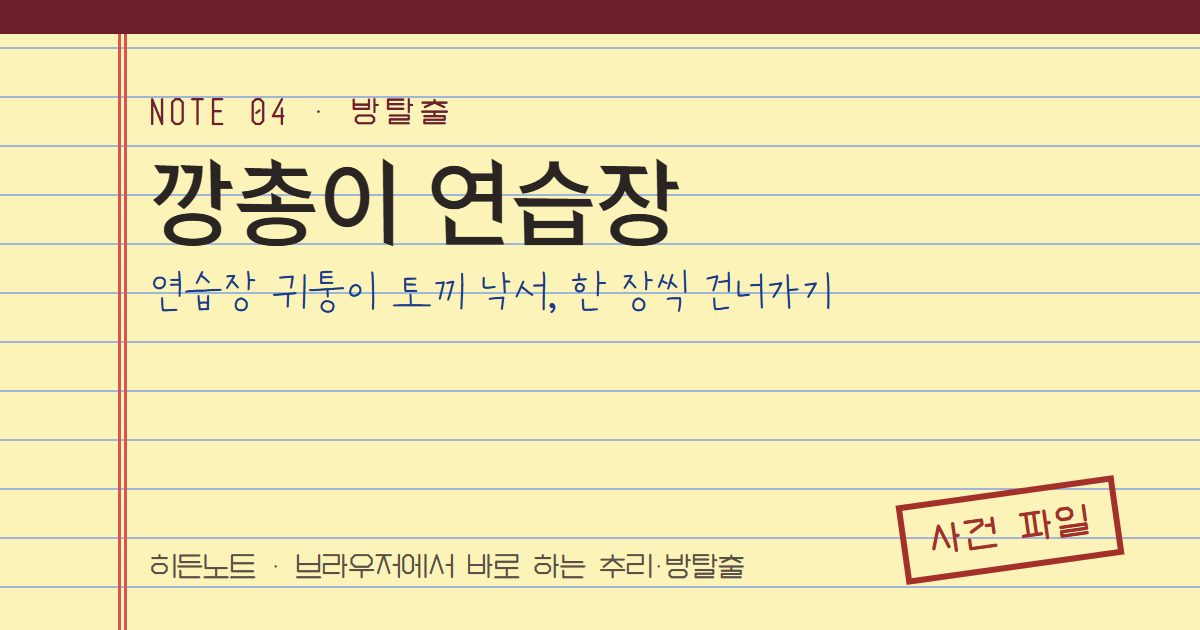
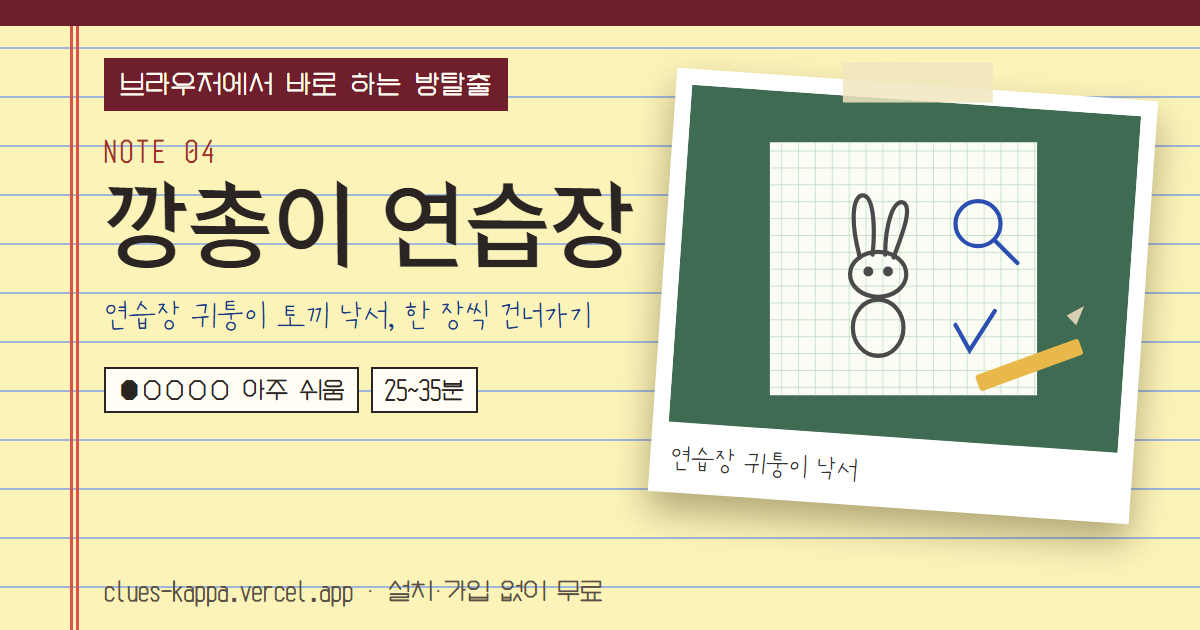
Use the main card polaroids in note link previews; count real clears
- og/note.html renders each note card's polaroid into og/noteNN.png
- og:description says it is a free browser escape game
- feedback.js counts a clear once per device (needs a Firestore rule)
- ledger: higher recommend seeds, live clear counts, drop (est.)

Claude-Session: https://claude.ai/code/session_014xZr56KSBxKkeAwG41ZnWC

diff --git a/index.html b/index.html
@@ -306,7 +306,7 @@ footer{padding-top:var(--lh);padding-bottom:var(--lh);font-family:var(--hand);fo
           <div><dt data-en="Genre">장르</dt><dd data-en="Escape room">방탈출</dd></div>
           <div><dt data-en="Difficulty">난이도</dt><dd data-en="●●●○○ Medium">●●●○○ 보통</dd></div>
           <div><dt data-en="Players">인원</dt><dd data-en="1+">1인 이상</dd></div>
-          <div><dt data-en="Play time">소요 시간</dt><dd data-en="35–45 min (est.) · Korean only">35~45분 (예상)</dd></div>
+          <div><dt data-en="Play time">소요 시간</dt><dd data-en="35–45 min · Korean only">35~45분</dd></div>
         </dl>
         <span class="open" data-en="Open the log →">일지 펼치기 →</span>
         <div class="stamp" data-stamp="note05" data-default="unsolved" data-en="UNSOLVED">미해결</div>
@@ -337,7 +337,7 @@ footer{padding-top:var(--lh);padding-bottom:var(--lh);font-family:var(--hand);fo
           <div><dt data-en="Genre">장르</dt><dd data-en="Escape room">방탈출</dd></div>
           <div><dt data-en="Difficulty">난이도</dt><dd data-en="●●●○○ Medium">●●●○○ 보통</dd></div>
           <div><dt data-en="Players">인원</dt><dd data-en="1+">1인 이상</dd></div>
-          <div><dt data-en="Play time">소요 시간</dt><dd data-en="40–50 min (est.) · Korean only">40~50분 (예상)</dd></div>
+          <div><dt data-en="Play time">소요 시간</dt><dd data-en="40–50 min · Korean only">40~50분</dd></div>
         </dl>
         <span class="open" data-en="Start the shift →">근무 시작 →</span>
         <div class="stamp newcase" data-stamp="note06" data-default="new" data-en="NEW CASE">새 사건</div>
@@ -358,9 +358,9 @@ footer{padding-top:var(--lh);padding-bottom:var(--lh);font-family:var(--hand);fo
             <td class="cl" data-cl="note03">—</td><td class="me" data-rec="note03">—</td><td class="rc"><button class="rec" data-note="note03" aria-pressed="false"><span class="ico">★</span><span class="lbl">추천</span><b>·</b></button></td></tr>
           <tr><td class="n">NOTE 04</td><td><a href="notes/04/" data-en="The Doodle Notebook">깡총이 연습장</a></td><td class="g" data-en="Escape room">방탈출</td><td class="lv" title="1/5"><span class="dots">●○○○○</span> <span data-en="Very easy">아주 쉬움</span></td><td data-en="1+">1인~</td><td data-en="25–35 min">25~35분</td>
             <td class="cl" data-cl="note04">—</td><td class="me" data-rec="note04">—</td><td class="rc"><button class="rec" data-note="note04" aria-pressed="false"><span class="ico">★</span><span class="lbl">추천</span><b>·</b></button></td></tr>
-          <tr><td class="n">NOTE 05</td><td><a href="notes/05/" data-en="Exit 2 of the Closed Cinema">폐극장 2번 출구</a></td><td class="g" data-en="Escape room">방탈출</td><td class="lv" title="3/5"><span class="dots">●●●○○</span> <span data-en="Medium">보통</span></td><td data-en="1+">1인~</td><td data-en="35–45 min (est.)">35~45분 (예상)</td>
+          <tr><td class="n">NOTE 05</td><td><a href="notes/05/" data-en="Exit 2 of the Closed Cinema">폐극장 2번 출구</a></td><td class="g" data-en="Escape room">방탈출</td><td class="lv" title="3/5"><span class="dots">●●●○○</span> <span data-en="Medium">보통</span></td><td data-en="1+">1인~</td><td data-en="35–45 min">35~45분</td>
             <td class="cl" data-cl="note05">—</td><td class="me" data-rec="note05">—</td><td class="rc"><button class="rec" data-note="note05" aria-pressed="false"><span class="ico">★</span><span class="lbl">추천</span><b>·</b></button></td></tr>
-          <tr><td class="n">NOTE 06</td><td><a href="notes/06/" data-en="Gureumjae">구름재</a></td><td class="g" data-en="Escape room">방탈출</td><td class="lv" title="3/5"><span class="dots">●●●○○</span> <span data-en="Medium">보통</span></td><td data-en="1+">1인~</td><td data-en="40–50 min (est.)">40~50분 (예상)</td>
+          <tr><td class="n">NOTE 06</td><td><a href="notes/06/" data-en="Gureumjae">구름재</a></td><td class="g" data-en="Escape room">방탈출</td><td class="lv" title="3/5"><span class="dots">●●●○○</span> <span data-en="Medium">보통</span></td><td data-en="1+">1인~</td><td data-en="40–50 min">40~50분</td>
             <td class="cl" data-cl="note06">—</td><td class="me" data-rec="note06">—</td><td class="rc"><button class="rec" data-note="note06" aria-pressed="false"><span class="ico">★</span><span class="lbl">추천</span><b>·</b></button></td></tr>
           <tr class="off"><td class="n">NOTE 07</td><td class="t" data-en="The Night Before the Exam">수능 전날 밤 독서실</td><td class="g" data-en="In planning">기획 중</td><td class="lv">—</td><td>—</td><td>—</td><td>—</td><td class="release" colspan="2" data-en="Coming soon">출시 예정</td></tr>
           <tr class="off"><td class="n">NOTE 08</td><td class="t" data-en="The Lost-and-Found Bag">분실물 센터 가방</td><td class="g" data-en="In planning">기획 중</td><td class="lv">—</td><td>—</td><td>—</td><td>—</td><td class="release" colspan="2" data-en="Coming soon">출시 예정</td></tr>
@@ -449,12 +449,13 @@ async function connect(){
   })().catch(e=>{fb=null;throw e});
   return fb;
 }
-// 화면에 보이는 추천 수의 기본값. 실제 누른 수(Firestore count)에 더해서 보여 준다. DB에는 안 쓴다.
-// 사건 대장 클리어 수 (화면 표시용 기본값. 실제 집계는 아직 안 붙임)
+// 사건 대장 클리어 수 = 기본값 + 실제 클리어(feedback.js가 결말에서 clueLikes/clear_noteNN에 +1, 기기당 한 번)
 const STATS = {note01:{n:214}, note02:{n:187}, note03:{n:263}, note04:{n:201}, note05:{n:58}, note06:{n:12}};
-document.querySelectorAll('td[data-cl]').forEach(td=>{const s=STATS[td.dataset.cl];if(!s)return;
-  td.innerHTML=(EN?s.n+'':s.n+'명');});
-const SEED = {note03: 104, note01: 78, note04: 69, note02: 71, note05: 24, note06: 7};
+document.querySelectorAll('td[data-cl]').forEach(async td=>{const note=td.dataset.cl,s=STATS[note];if(!s)return;
+  const show=n=>{td.innerHTML=EN?n+'':n+'명'};show(s.n);
+  try{const c=await connect(),snap=await c.store.getDoc(c.store.doc(c.db,'clueLikes','clear_'+note));show(s.n+(snap.exists()?Math.max(0,snap.data().count|0):0))}catch{}});
+// 화면에 보이는 추천 수의 기본값. 실제 누른 수(Firestore count)에 더해서 보여 준다. DB에는 안 쓴다.
+const SEED = {note03: 158, note01: 124, note04: 113, note02: 112, note05: 36, note06: 8};
 const mine = note => { try { return localStorage.getItem('hn.rec.'+note) === '1'; } catch { return false; } };
 const setMine = (note, on) => { try { on ? localStorage.setItem('hn.rec.'+note, '1') : localStorage.removeItem('hn.rec.'+note); } catch {} };
 function paint(btn, count){

diff --git a/og/note.html b/og/note.html
@@ -1,0 +1,38 @@
+<!DOCTYPE html><html><head><meta charset="utf-8"><link rel="stylesheet" href="../fonts/fonts.css">
+<link rel="stylesheet" href="https://cdn.jsdelivr.net/gh/hada0127/hada-type-levelup@v2026.10.21/css/levelup-subset.css">
+<!-- 노트 링크 미리보기(og/noteNN.png) 틀. 메인 index.html의 노트 카드(폴라로이드 그림·제목·한 줄·장르·난이도·시간)를 그대로 가져와 Edge로 찍는다. ?n=06 -->
+<style>
+html,body{margin:0;width:1200px;height:630px;overflow:hidden}
+.c{position:relative;width:1200px;height:630px;background:repeating-linear-gradient(#fbf3b8 0 47px,#9fb6d8 47px 49px);background-color:#fbf3b8;font-family:'Kkakdugi Drafting',monospace;color:#2a2422}
+.c:before{content:"";position:absolute;left:70px;top:0;bottom:0;width:3px;background:#d9534f;box-shadow:6px 0 0 #d9534f}
+.c:after{content:"";position:absolute;left:0;right:0;top:0;height:26px;background:#6e1f2b}
+.l{position:absolute;left:104px;top:58px;width:560px}
+.badge{display:inline-block;background:#6e1f2b;color:#fffdf4;font-size:26px;padding:8px 16px;letter-spacing:1px}
+.no{font-size:26px;letter-spacing:4px;color:#a3312a;margin-top:22px}
+h1{margin:6px 0 0;font-family:LevelUp,serif;font-weight:400;font-size:var(--hs,96px);line-height:1.05;word-break:keep-all}
+.sub{font-family:HEEJOY,cursive;font-size:40px;line-height:1.25;color:#1b3a8a;margin-top:16px;word-break:keep-all}
+.meta{display:flex;gap:12px;flex-wrap:wrap;margin-top:24px}
+.meta span{border:2px solid #2a2422;font-size:24px;padding:4px 12px;background:#fffdf4}
+.f{position:absolute;left:104px;bottom:22px;font-size:24px;color:#5a5046}
+.pol{position:absolute;right:56px;top:84px;width:450px;background:#fff;padding:16px 16px 70px;transform:rotate(4deg);box-shadow:0 18px 36px rgba(40,30,0,.35)}
+.pol svg{display:block;width:100%;height:auto}
+.pol .cap{position:absolute;left:20px;right:16px;bottom:16px;font-family:HEEJOY,cursive;font-size:34px;color:#333;white-space:nowrap;overflow:hidden}
+.tape{position:absolute;left:50%;top:-22px;width:150px;height:40px;margin-left:-75px;background:rgba(240,230,190,.85);transform:rotate(-4deg)}
+</style></head><body><div class="c">
+<div class="l"><div class="badge" id="badge"></div><div class="no" id="no"></div><h1 id="h"></h1><div class="sub" id="sub"></div><div class="meta" id="meta"></div></div>
+<div class="pol" id="pol"><span class="tape"></span></div>
+<div class="f">clues-kappa.vercel.app · 설치·가입 없이 무료</div></div>
+<script>
+(async()=>{const n=new URLSearchParams(location.search).get('n');
+  const doc=new DOMParser().parseFromString(await (await fetch('../index.html')).text(),'text/html');
+  const a=doc.querySelector(`a.note[href="notes/${n}/"]`);
+  const dd=t=>{const d=[...a.querySelectorAll('.fields div')].find(x=>x.querySelector('dt').textContent.trim()===t);return d?d.querySelector('dd').textContent.trim():''};
+  const genre=dd('장르')||'방탈출';
+  badge.textContent=`브라우저에서 바로 하는 ${genre}`;
+  no.textContent=a.querySelector('.no').textContent.trim();
+  const h2=a.querySelector('h2').cloneNode(true);h2.querySelectorAll('br').forEach(b=>b.replaceWith(' '));h.textContent=h2.textContent.replace(/s+/g,' ').trim();if([...h.textContent].length>8)document.documentElement.style.setProperty('--hs','76px');
+  sub.textContent=a.querySelector('.sub').textContent.trim();
+  meta.innerHTML=[dd('난이도'),dd('소요 시간')].filter(Boolean).map(x=>`<span>${x}</span>`).join('');
+  const ph=a.querySelector('.photo');ph.querySelectorAll('svg.clip').forEach(x=>x.remove());pol.insertAdjacentHTML('beforeend',ph.innerHTML);
+  document.body.dataset.ready=1})();
+</script></body></html>

diff --git a/feedback.js b/feedback.js
@@ -62,7 +62,14 @@
     }catch(e){draft.busy=false;draft.msg=T.fail;paint(box)}
   }
 
+  // 클리어 수: 결말 화면이 처음 보일 때 이 기기에서 한 번만 clueLikes/clear_noteNN count +1 (메인 사건 대장 「클리어」 칸이 읽음)
+  async function countClear(){
+    const again=document.getElementById('again');if(!again||again.offsetParent===null)return;
+    const k='hn.clearCounted.'+NOTE;try{if(localStorage.getItem(k))return;const c=JSON.parse(localStorage.getItem('hn.clear.'+NOTE)||'{}');if(!c.ok)return;localStorage.setItem(k,'1')}catch{return}
+    try{const {store,db}=await connect();await store.setDoc(store.doc(db,'clueLikes','clear_'+NOTE),{count:store.increment(1)},{merge:true})}catch{try{localStorage.removeItem(k)}catch{}}
+  }
   function mount(){
+    countClear();
     const again=document.getElementById('again');if(!again)return;
     const row=again.parentElement;if(!row||row.parentElement.querySelector(':scope>.hnfb'))return;
     const box=document.createElement('section');box.className='hnfb';box.setAttribute('aria-label',T.q);

diff --git a/notes/05/index.html b/notes/05/index.html
@@ -8,9 +8,9 @@
 <meta property="og:type" content="website">
 <meta property="og:site_name" content="히든노트">
 <meta property="og:title" content="Note 05 · 폐극장 2번 출구 | 히든노트">
-<meta property="og:description" content="철거 전날 밤, 깜깜한 극장에서 읽는 영사기사의 일지. 손전등 하나로 나가는 길을 찾는 방탈출.">
+<meta property="og:description" content="[무료 · 브라우저에서 바로 하는 방탈출] 철거 전날 밤, 깜깜한 극장에서 읽는 영사기사의 일지. 손전등 하나로 나가는 길을 찾는 방탈출.">
 <meta property="og:url" content="https://clues-kappa.vercel.app/notes/05/">
-<meta property="og:image" content="https://clues-kappa.vercel.app/og/note05.png">
+<meta property="og:image" content="https://clues-kappa.vercel.app/og/note05.png?v=2">
 <meta property="og:image:width" content="1200">
 <meta property="og:image:height" content="630">
 <meta name="twitter:card" content="summary_large_image">

diff --git a/notes/01/index.html b/notes/01/index.html
@@ -8,9 +8,9 @@
 <meta property="og:type" content="website">
 <meta property="og:site_name" content="히든노트">
 <meta property="og:title" content="Note 01 · FUN보드 사건 파일 | 히든노트">
-<meta property="og:description" content="보드게임 카페의 마지막 손님. 장소를 조사하고 심문해 범인을 지목하는 코지 미스터리.">
+<meta property="og:description" content="[무료 · 브라우저에서 바로 하는 추리 게임] 보드게임 카페의 마지막 손님. 장소를 조사하고 심문해 범인을 지목하는 코지 미스터리.">
 <meta property="og:url" content="https://clues-kappa.vercel.app/notes/01/">
-<meta property="og:image" content="https://clues-kappa.vercel.app/og/note01.png">
+<meta property="og:image" content="https://clues-kappa.vercel.app/og/note01.png?v=2">
 <meta property="og:image:width" content="1200">
 <meta property="og:image:height" content="630">
 <meta name="twitter:card" content="summary_large_image">

diff --git a/notes/06/index.html b/notes/06/index.html
@@ -8,9 +8,9 @@
 <meta property="og:type" content="website">
 <meta property="og:site_name" content="히든노트">
 <meta property="og:title" content="Note 06 · 구름재 | 히든노트">
-<meta property="og:description" content="해발 1,400 m 기상관측소, 처음 혼자 서는 야간 근무. 정시마다 재서 숫자로 바꿔 보내는 방탈출.">
+<meta property="og:description" content="[무료 · 브라우저에서 바로 하는 방탈출] 해발 1,400 m 기상관측소, 처음 혼자 서는 야간 근무. 정시마다 재서 숫자로 바꿔 보내는 방탈출.">
 <meta property="og:url" content="https://clues-kappa.vercel.app/notes/06/">
-<meta property="og:image" content="https://clues-kappa.vercel.app/og/note06.png">
+<meta property="og:image" content="https://clues-kappa.vercel.app/og/note06.png?v=2">
 <meta property="og:image:width" content="1200">
 <meta property="og:image:height" content="630">
 <meta name="twitter:card" content="summary_large_image">

diff --git a/notes/03/index.html b/notes/03/index.html
@@ -8,9 +8,9 @@
 <meta property="og:type" content="website">
 <meta property="og:site_name" content="히든노트">
 <meta property="og:title" content="Note 03 · 은하분교 숙직 일지 | 히든노트">
-<meta property="og:description" content="문 닫은 분교, 비 오는 밤, 아직 쓰이는 일지. 배치도를 따라 방을 뒤지는 노트 방탈출.">
+<meta property="og:description" content="[무료 · 브라우저에서 바로 하는 방탈출] 문 닫은 분교, 비 오는 밤, 아직 쓰이는 일지. 배치도를 따라 방을 뒤지는 노트 방탈출.">
 <meta property="og:url" content="https://clues-kappa.vercel.app/notes/03/">
-<meta property="og:image" content="https://clues-kappa.vercel.app/og/note03.png">
+<meta property="og:image" content="https://clues-kappa.vercel.app/og/note03.png?v=2">
 <meta property="og:image:width" content="1200">
 <meta property="og:image:height" content="630">
 <meta name="twitter:card" content="summary_large_image">

diff --git a/notes/04/index.html b/notes/04/index.html
@@ -8,9 +8,9 @@
 <meta property="og:type" content="website">
 <meta property="og:site_name" content="히든노트">
 <meta property="og:title" content="Note 04 · 깡총이 연습장 | 히든노트">
-<meta property="og:description" content="연습장 귀퉁이 토끼 낙서, 한 장씩 건너가기. 낙서를 움직여 푸는 방탈출.">
+<meta property="og:description" content="[무료 · 브라우저에서 바로 하는 방탈출] 연습장 귀퉁이 토끼 낙서, 한 장씩 건너가기. 낙서를 움직여 푸는 방탈출.">
 <meta property="og:url" content="https://clues-kappa.vercel.app/notes/04/">
-<meta property="og:image" content="https://clues-kappa.vercel.app/og/note04.png">
+<meta property="og:image" content="https://clues-kappa.vercel.app/og/note04.png?v=2">
 <meta property="og:image:width" content="1200">
 <meta property="og:image:height" content="630">
 <meta name="twitter:card" content="summary_large_image">

diff --git a/notes/02/index.html b/notes/02/index.html
@@ -8,9 +8,9 @@
 <meta property="og:type" content="website">
 <meta property="og:site_name" content="히든노트">
 <meta property="og:title" content="Note 02 · 문예부 교환일기 | 히든노트">
-<meta property="og:description" content="방과 후 갇힌 부실, 노트 한 권. 장마다 암호를 푸는 노트 방탈출.">
+<meta property="og:description" content="[무료 · 브라우저에서 바로 하는 방탈출] 방과 후 갇힌 부실, 노트 한 권. 장마다 암호를 푸는 노트 방탈출.">
 <meta property="og:url" content="https://clues-kappa.vercel.app/notes/02/">
-<meta property="og:image" content="https://clues-kappa.vercel.app/og/note02.png">
+<meta property="og:image" content="https://clues-kappa.vercel.app/og/note02.png?v=2">
 <meta property="og:image:width" content="1200">
 <meta property="og:image:height" content="630">
 <meta name="twitter:card" content="summary_large_image">

diff --git a/AGENTS.md b/AGENTS.md
@@ -11,7 +11,7 @@ analytics.js        GA4 전송. 스키마에 없는 이벤트·값은 버린다
 feedback.js         결말 화면 한 줄 피드백 (#again 위에 자동으로 붙음, Firestore clueFeedback, 쓰기만)
 share.js            결말 기록 공유 (기록 카드: /api/r 링크 → 미리보기에 등급 도장·기록, 받은 사람은 친구 기록 카드 → 시작 화면. 틀린 암호 수는 analytics.js가 hn.wrong.noteNN에 셈)
 api/r.js            기록 공유 링크용 Vercel 함수(의존성 없음). og 메타를 만들고 노트로 보낸다. 이미지는 og/rec/noteNN-등급번호.png. 노트·등급이 바뀌면 NOTES 표와 이미지도 같이
-og/                 링크 미리보기 이미지 (1200×630, card.html을 Edge로 찍어 만듦). 새 노트는 og:* 메타와 og/noteNN.png 추가
+og/                 링크 미리보기 이미지 (1200×630, Edge로 찍음). noteNN.png = note.html?n=NN (메인 카드 폴라로이드를 그대로 가져옴, 카드를 바꾸면 다시 찍기). rec/ = 기록 공유용. 새 노트는 og:* 메타와 og/noteNN.png 추가
 ANALYTICS.md        이벤트 설계 문서
 ART.md              장면 아트(SVG) 규칙. 그림을 그리거나 고치기 전에 반드시 읽는다
 notes/NN/index.html 사건 하나 = HTML 파일 하나 (CSS·JS 모두 인라인)

diff --git a/README.md b/README.md
@@ -10,8 +10,8 @@
 | [Note 02](notes/02/) | 문예부 교환일기: 노트 방탈출 | 1인~ | 20~30분 |
 | [Note 03](notes/03/) | 은하분교 숙직 일지: 노트 방탈출 | 1인~ | 30~40분 |
 | [Note 04](notes/04/) | 깡총이 연습장: 낙서 방탈출 (1~6장) | 1인~ | 25~35분 |
-| [Note 05](notes/05/) | 폐극장 2번 출구: 영사기사 일지 방탈출 | 1인~ | 35~45분 (예상) |
-| [Note 06](notes/06/) | 구름재: 산꼭대기 기상관측소 야간 근무 방탈출 | 1인~ | 40~50분 (예상) |
+| [Note 05](notes/05/) | 폐극장 2번 출구: 영사기사 일지 방탈출 | 1인~ | 35~45분 |
+| [Note 06](notes/06/) | 구름재: 산꼭대기 기상관측소 야간 근무 방탈출 | 1인~ | 40~50분 |
 
 ## 구조
 
